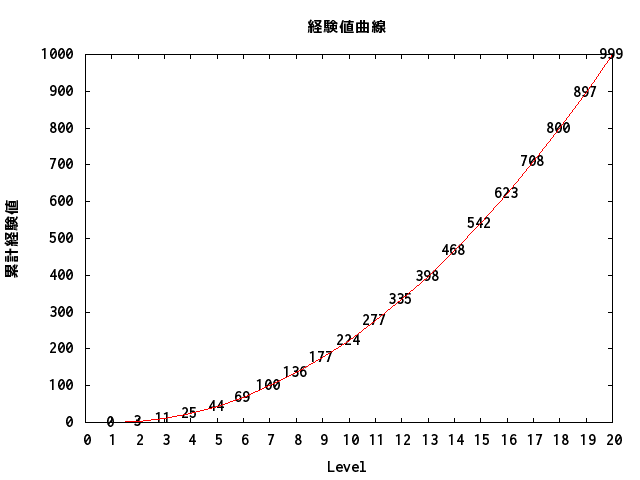
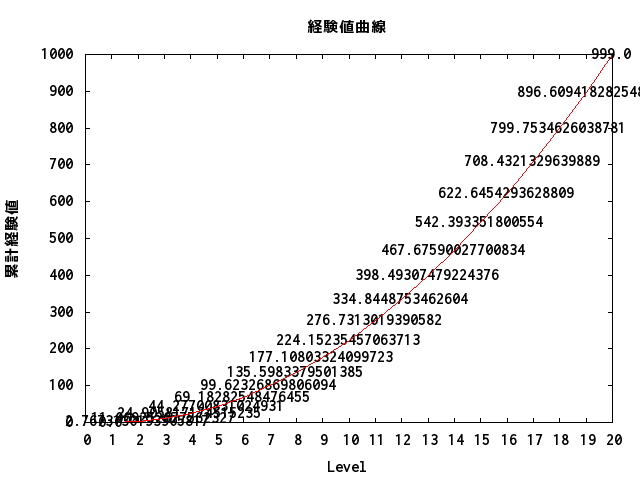
直線追加

diff --git a/経験値曲線.rb b/経験値曲線.rb
@@ -24,7 +24,7 @@ class ExpCurve < Struct.new(:p, :q, :x, :y)
   end
 
   def exp_by_level(level)
-    (a * (level - p) ** 2 + q).round
+    (a * (level - p) ** 2 + q)
   end
 
   def level_by_exp(exp)
@@ -69,11 +69,12 @@ end
 # レベル1のとき経験値0でレベル9のとき999になる曲線でレベル5のときの経験値は？
 
 curve = ExpCurve.new(1, 0, 20, 999)
-curve.exp_by_level(15)           # => 542
+exp = curve.exp_by_level(15)           # => 542.393351800554
+curve.level_by_exp(exp)                # => 15.0
 
 # 経験値 540 のときのレベルは？
 
-curve.level_by_exp(540)           # => 14.969077819782347
+curve.level_by_exp(542)           # => 14.994922574200181
 
 # グラフ化
 
@@ -88,17 +89,17 @@ output_file(records, "_exp_curve1.png")
 # レベル2のときに経験値10にするには？
 
 curve = ExpCurve.new(2, 10, 20, 999)
-curve.exp_by_level(2)           # => 10
+curve.exp_by_level(2)           # => 10.0
 
 # レベル 21..25 は崖っ縁にしたい場合は？
 
 curve = ExpCurve.new(20, 999, 25, 10000)
-curve.exp_by_level(20)          # => 999
-curve.exp_by_level(21)          # => 1359
-curve.exp_by_level(22)          # => 2439
-curve.exp_by_level(23)          # => 4239
-curve.exp_by_level(24)          # => 6760
-curve.exp_by_level(25)          # => 10000 # !> assigned but unused variable - id
+curve.exp_by_level(20)          # => 999.0
+curve.exp_by_level(21)          # => 1359.04
+curve.exp_by_level(22)          # => 2439.16
+curve.exp_by_level(23)          # => 4239.360000000001
+curve.exp_by_level(24)          # => 6759.64 # !> assigned but unused variable - id
+curve.exp_by_level(25)          # => 10000.0
 
 records += (21..25).collect do |level|
   {:lv => level, :exp => curve.exp_by_level(level)}
@@ -108,30 +109,30 @@ output_file(records, "_exp_curve2.png")
 
 tt curve.level_elems
 tt curve.exp_elems
-# >> +----+-----+
-# >> | lv | exp |
-# >> +----+-----+
-# >> |  1 |   0 |
-# >> |  2 |   3 |
-# >> |  3 |  11 |
-# >> |  4 |  25 |
-# >> |  5 |  44 |
-# >> |  6 |  69 |
-# >> |  7 | 100 |
-# >> |  8 | 136 |
-# >> |  9 | 177 |
-# >> | 10 | 224 |
-# >> | 11 | 277 |
-# >> | 12 | 335 |
-# >> | 13 | 398 |
-# >> | 14 | 468 |
-# >> | 15 | 542 |
-# >> | 16 | 623 |
-# >> | 17 | 708 |
-# >> | 18 | 800 |
-# >> | 19 | 897 |
-# >> | 20 | 999 |
-# >> +----+-----+
+# >> +----+--------------------+
+# >> | lv | exp                |
+# >> +----+--------------------+
+# >> |  1 |                0.0 |
+# >> |  2 | 2.7673130193905817 |
+# >> |  3 | 11.069252077562327 |
+# >> |  4 | 24.905817174515235 |
+# >> |  5 |  44.27700831024931 |
+# >> |  6 |  69.18282548476455 |
+# >> |  7 |  99.62326869806094 |
+# >> |  8 |  135.5983379501385 |
+# >> |  9 | 177.10803324099723 |
+# >> | 10 | 224.15235457063713 |
+# >> | 11 |  276.7313019390582 |
+# >> | 12 |  334.8448753462604 |
+# >> | 13 | 398.49307479224376 |
+# >> | 14 | 467.67590027700834 |
+# >> | 15 |   542.393351800554 |
+# >> | 16 |  622.6454293628809 |
+# >> | 17 |  708.4321329639889 |
+# >> | 18 |  799.7534626038781 |
+# >> | 19 |  896.6094182825485 |
+# >> | 20 |              999.0 |
+# >> +----+--------------------+
 # >> writing this to gnuplot:
 # >> set terminal png font 'Ricty-Bold.ttf'
 # >> set output "_exp_curve1.png"
@@ -141,26 +142,26 @@ tt curve.exp_elems
 # >> set ylabel "累計経験値"
 # >> set xrange [0:*]
 # >> set yrange [0:*]
-# >> set label 1 center at first 1, 0 '0'
-# >> set label 2 center at first 2, 3 '3'
-# >> set label 3 center at first 3, 11 '11'
-# >> set label 4 center at first 4, 25 '25'
-# >> set label 5 center at first 5, 44 '44'
-# >> set label 6 center at first 6, 69 '69'
-# >> set label 7 center at first 7, 100 '100'
-# >> set label 8 center at first 8, 136 '136'
-# >> set label 9 center at first 9, 177 '177'
-# >> set label 10 center at first 10, 224 '224'
-# >> set label 11 center at first 11, 277 '277'
-# >> set label 12 center at first 12, 335 '335'
-# >> set label 13 center at first 13, 398 '398'
-# >> set label 14 center at first 14, 468 '468'
-# >> set label 15 center at first 15, 542 '542'
-# >> set label 16 center at first 16, 623 '623'
-# >> set label 17 center at first 17, 708 '708'
-# >> set label 18 center at first 18, 800 '800'
-# >> set label 19 center at first 19, 897 '897'
-# >> set label 20 center at first 20, 999 '999'
+# >> set label 1 center at first 1, 0.0 '0.0'
+# >> set label 2 center at first 2, 2.7673130193905817 '2.7673130193905817'
+# >> set label 3 center at first 3, 11.069252077562327 '11.069252077562327'
+# >> set label 4 center at first 4, 24.905817174515235 '24.905817174515235'
+# >> set label 5 center at first 5, 44.27700831024931 '44.27700831024931'
+# >> set label 6 center at first 6, 69.18282548476455 '69.18282548476455'
+# >> set label 7 center at first 7, 99.62326869806094 '99.62326869806094'
+# >> set label 8 center at first 8, 135.5983379501385 '135.5983379501385'
+# >> set label 9 center at first 9, 177.10803324099723 '177.10803324099723'
+# >> set label 10 center at first 10, 224.15235457063713 '224.15235457063713'
+# >> set label 11 center at first 11, 276.7313019390582 '276.7313019390582'
+# >> set label 12 center at first 12, 334.8448753462604 '334.8448753462604'
+# >> set label 13 center at first 13, 398.49307479224376 '398.49307479224376'
+# >> set label 14 center at first 14, 467.67590027700834 '467.67590027700834'
+# >> set label 15 center at first 15, 542.393351800554 '542.393351800554'
+# >> set label 16 center at first 16, 622.6454293628809 '622.6454293628809'
+# >> set label 17 center at first 17, 708.4321329639889 '708.4321329639889'
+# >> set label 18 center at first 18, 799.7534626038781 '799.7534626038781'
+# >> set label 19 center at first 19, 896.6094182825485 '896.6094182825485'
+# >> set label 20 center at first 20, 999.0 '999.0'
 # >> 
 # >> writing this to gnuplot:
 # >> set terminal png font 'Ricty-Bold.ttf'
@@ -171,42 +172,42 @@ tt curve.exp_elems
 # >> set ylabel "累計経験値"
 # >> set xrange [0:*]
 # >> set yrange [0:*]
-# >> set label 1 center at first 1, 0 '0'
-# >> set label 2 center at first 2, 3 '3'
-# >> set label 3 center at first 3, 11 '11'
-# >> set label 4 center at first 4, 25 '25'
-# >> set label 5 center at first 5, 44 '44'
-# >> set label 6 center at first 6, 69 '69'
-# >> set label 7 center at first 7, 100 '100'
-# >> set label 8 center at first 8, 136 '136'
-# >> set label 9 center at first 9, 177 '177'
-# >> set label 10 center at first 10, 224 '224'
-# >> set label 11 center at first 11, 277 '277'
-# >> set label 12 center at first 12, 335 '335'
-# >> set label 13 center at first 13, 398 '398'
-# >> set label 14 center at first 14, 468 '468'
-# >> set label 15 center at first 15, 542 '542'
-# >> set label 16 center at first 16, 623 '623'
-# >> set label 17 center at first 17, 708 '708'
-# >> set label 18 center at first 18, 800 '800'
-# >> set label 19 center at first 19, 897 '897'
-# >> set label 20 center at first 20, 999 '999'
-# >> set label 21 center at first 21, 1359 '1359'
-# >> set label 22 center at first 22, 2439 '2439'
-# >> set label 23 center at first 23, 4239 '4239'
-# >> set label 24 center at first 24, 6760 '6760'
-# >> set label 25 center at first 25, 10000 '10000'
+# >> set label 1 center at first 1, 0.0 '0.0'
+# >> set label 2 center at first 2, 2.7673130193905817 '2.7673130193905817'
+# >> set label 3 center at first 3, 11.069252077562327 '11.069252077562327'
+# >> set label 4 center at first 4, 24.905817174515235 '24.905817174515235'
+# >> set label 5 center at first 5, 44.27700831024931 '44.27700831024931'
+# >> set label 6 center at first 6, 69.18282548476455 '69.18282548476455'
+# >> set label 7 center at first 7, 99.62326869806094 '99.62326869806094'
+# >> set label 8 center at first 8, 135.5983379501385 '135.5983379501385'
+# >> set label 9 center at first 9, 177.10803324099723 '177.10803324099723'
+# >> set label 10 center at first 10, 224.15235457063713 '224.15235457063713'
+# >> set label 11 center at first 11, 276.7313019390582 '276.7313019390582'
+# >> set label 12 center at first 12, 334.8448753462604 '334.8448753462604'
+# >> set label 13 center at first 13, 398.49307479224376 '398.49307479224376'
+# >> set label 14 center at first 14, 467.67590027700834 '467.67590027700834'
+# >> set label 15 center at first 15, 542.393351800554 '542.393351800554'
+# >> set label 16 center at first 16, 622.6454293628809 '622.6454293628809'
+# >> set label 17 center at first 17, 708.4321329639889 '708.4321329639889'
+# >> set label 18 center at first 18, 799.7534626038781 '799.7534626038781'
+# >> set label 19 center at first 19, 896.6094182825485 '896.6094182825485'
+# >> set label 20 center at first 20, 999.0 '999.0'
+# >> set label 21 center at first 21, 1359.04 '1359.04'
+# >> set label 22 center at first 22, 2439.16 '2439.16'
+# >> set label 23 center at first 23, 4239.360000000001 '4239.360000000001'
+# >> set label 24 center at first 24, 6759.64 '6759.64'
+# >> set label 25 center at first 25, 10000.0 '10000.0'
 # >> 
-# >> +----+-------+
-# >> | lv | exp   |
-# >> +----+-------+
-# >> | 20 |   999 |
-# >> | 21 |  1359 |
-# >> | 22 |  2439 |
-# >> | 23 |  4239 |
-# >> | 24 |  6760 |
-# >> | 25 | 10000 |
-# >> +----+-------+
+# >> +----+-------------------+
+# >> | lv | exp               |
+# >> +----+-------------------+
+# >> | 20 |             999.0 |
+# >> | 21 |           1359.04 |
+# >> | 22 |           2439.16 |
+# >> | 23 | 4239.360000000001 |
+# >> | 24 |           6759.64 |
+# >> | 25 |           10000.0 |
+# >> +----+-------------------+
 # >> +-------+------+
 # >> | lv    | exp  |
 # >> +-------+------+

diff --git a/直線方程式.rb b/直線方程式.rb
@@ -1,0 +1,73 @@
+# -*- coding: utf-8 -*-
+#
+# 一次関数
+#
+# (y - p0.y) == ((p1.y - p0.y).to_f / (p1.x - p0.x)) * (x - p0.x)
+# y = (p1.y - p0.y).to_f * (x - p0.x) / (p1.x - p0.x) + p0.y
+# x = ((y - p0.y) * (p1.x - p0.x)).to_f / (p1.y - p0.y) + p0.x
+#
+
+require "bundler/setup"
+
+require "rain_table"
+require "gnuplot"
+
+class LinearWay < Struct.new(:x0, :y0, :x1, :y1)
+  def y_by_x(x)
+    (y1 - y0).to_f * (x - x0) / (x1 - x0) + y0
+  end
+  def x_by_y(y)
+    ((y - y0) * (x1 - x0)).to_f / (y1 - y0) + x0
+  end
+end
+
+def output_file(records, filename)
+  Gnuplot.open do |gp|
+    Gnuplot::Plot.new(gp) do |plot|
+      plot.terminal "png font 'Ricty-Bold.ttf'"
+      plot.output filename
+      # plot.title "レベルに比例する何か"
+      plot.xlabel "Level"
+      # plot.xtics 1
+      plot.ylabel "何か"
+      # plot.xrange "[0:*]"
+      # plot.yrange "[0:*]"
+      records.each.with_index{|e, i|
+        plot.label "#{i.next} center at first #{e[:lv]}, #{e[:exp]} '#{e[:exp]}'"
+      }
+      plot.data << Gnuplot::DataSet.new([records.collect{|e|e[:lv]}, records.collect{|e|e[:exp]}]) do |ds|
+        ds.with = "linespoints pointtype 7 pointsize 0.5"
+        ds.notitle
+      end
+    end
+  end
+end
+
+curve = LinearWay[1, 300, 20, 2400]
+y = curve.y_by_x(15)                # => 145.28571428571428
+curve.x_by_y(y)                     # => 15.0
+
+records = (1..20).collect do |level|
+  {:lv => level, :exp => curve.y_by_x(level).round(2)}
+end
+
+output_file(records, "_linear_curve.png")
+# >> writing this to gnuplot:
+# >> set terminal png font 'Ricty-Bold.ttf'
+# >> set output "_linear_curve.png"
+# >> set title "レベルに比例する何か"
+# >> set xlabel "Level"
+# >> set ylabel "何か"
+# >> set xrange [0:*]
+# >> set yrange [0:*]
+# >> set label 1 center at first 1, 3.0 '3.0'
+# >> set label 2 center at first 2, 13.16 '13.16'
+# >> set label 3 center at first 3, 23.33 '23.33'
+# >> set label 4 center at first 4, 33.49 '33.49'
+# >> set label 5 center at first 5, 43.65 '43.65'
+# >> set label 6 center at first 6, 53.82 '53.82'
+# >> set label 7 center at first 7, 63.98 '63.98'
+# >> set label 8 center at first 8, 74.14 '74.14'
+# >> set label 9 center at first 9, 84.31 '84.31'
+# >> set label 10 center at first 10, 94.47 '94.47'
+# >> 

diff --git a/攻撃予想.rb b/攻撃予想.rb
@@ -2,7 +2,7 @@
 #
 # ベイズ法を使った攻撃予想
 #
-# 参考: ゲーム開発者のためのAI入門 P.266
+# 参照: ゲーム開発者のためのAI入門 P.266
 #
 # サイズ2の履歴に [:a, :b] の履歴があり、次に :c が来たとき
 # [:a, :b] となった回数と、[:a, :b, :c] となった回数を ++ して
